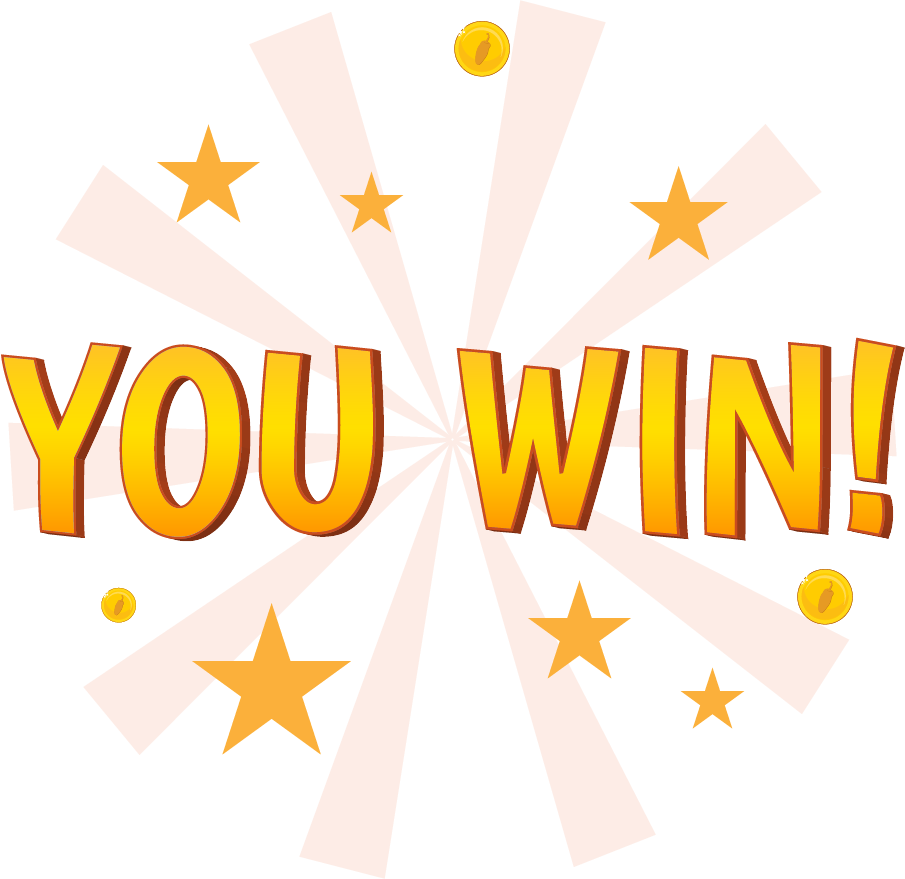
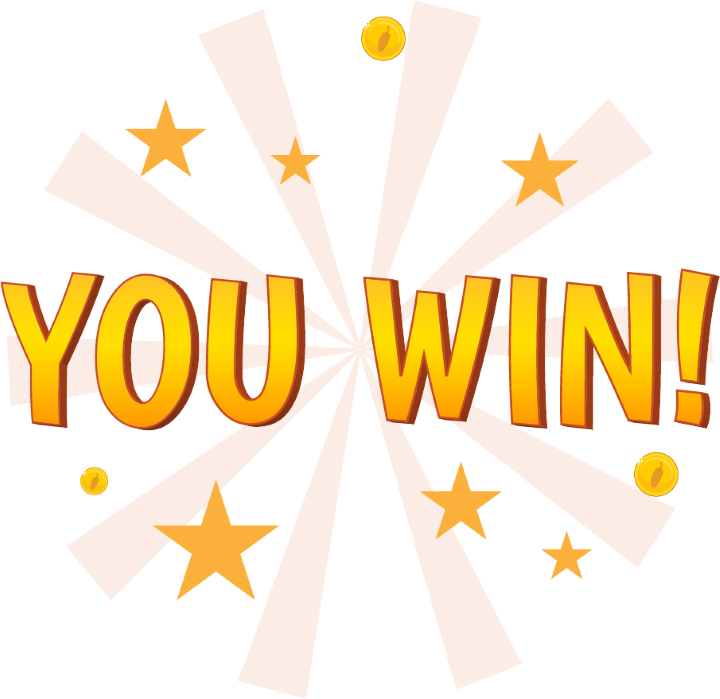
apply win lost screens + fixing some issues

diff --git a/game.js b/game.js
@@ -34,6 +34,7 @@ function gameInit() {
 
 //start Game handler
 function startGame() {
+  managePauseAudios();
   startScreen.style.display = "none";
   winLoseScreen.style.display = "none";
   canvasContainer.style.display = "block";
@@ -42,20 +43,42 @@ function startGame() {
 }
 
 function backToMenu(event) {
-  console.log(event.currentTarget.parentElement.dataset.id);
   let screenId = event.currentTarget.parentElement.dataset.id;
 
-  if (screenId === "canvas") {
-    if (world) world.stopGame();
-    manageMuteAudios(
-      audioManager.soundEffects,
-      audioManager.menuMusik,
-      audioManager.winLoseMusic,
-    );
-    canvasContainer.style.display = "none";
-    startScreen.style.display = "flex";
-    manageUnmuteAudioWelcomeScreen();
-  }
+  if (world) world.stopGame();
+  managePauseAudios();
+
+  screenId === "canvas"
+    ? (canvasContainer.style.display = "none")
+    : screenId === "win-lose-game-btn"
+      ? (winLoseScreen.style.display = "none")
+      : null;
+
+  contentContainer.innerHTML = "";
+  startScreen.style.display = "flex";
+  manageUnmuteAudioWelcomeScreen();
+}
+
+function showWinScreen() {
+  canvasContainer.style.display = "none";
+  startScreen.style.display = "none";
+  managePauseAudios();
+  winLoseScreen.style.display = "flex";
+  winLoseScreen.innerHTML = renderWinLoseScreen();
+  winLoseScreen.classList.remove("lose-background");
+  winLoseScreen.classList.add("win-background");
+  if (!audioManager.isMuted) audioManager.winLoseMusic.win.play();
+}
+
+function showLoseScreen() {
+  canvasContainer.style.display = "none";
+  startScreen.style.display = "none";
+  managePauseAudios();
+  winLoseScreen.style.display = "flex";
+  winLoseScreen.innerHTML = renderWinLoseScreen();
+  winLoseScreen.classList.remove("win-background");
+  winLoseScreen.classList.add("lose-background");
+  if (!audioManager.isMuted) audioManager.winLoseMusic.gameOver.play();
 }
 
 //side-Screen function
@@ -80,7 +103,7 @@ fullscreenBtns.forEach((btn) => {
 
 //game music manager
 function manageGameAudio() {
-  manageMuteAudios();
+  // managePauseAudios();
   if (!audioManager.isMuted) {
     audioManager.soundEffects.game.play();
     audioManager.soundEffects.game.volume = 0.2;
@@ -98,7 +121,7 @@ muteBtns.forEach((muteBtn) => {
     localStorage.setItem("audioMuted", audioManager.isMuted);
     updateAllIcons();
 
-    if (audioManager.isMuted) manageMuteAudios();
+    if (audioManager.isMuted) managePauseAudios();
     else {
       let screenId = event.currentTarget.parentElement.dataset.id;
 
@@ -117,7 +140,7 @@ function updateAllIcons() {
 }
 
 function manageUnmuteAudioWelcomeScreen() {
-  manageMuteAudios();
+  // managePauseAudios();
   if (!audioManager.isMuted) {
     audioManager.menuMusik.menu.play();
     audioManager.menuMusik.menu.loop = true;
@@ -126,7 +149,7 @@ function manageUnmuteAudioWelcomeScreen() {
 }
 
 function manageUnmuteAudioCanvas() {
-  manageMuteAudios();
+  // managePauseAudios();
   if (!audioManager.isMuted) {
     audioManager.soundEffects.game.play();
     audioManager.soundEffects.game.loop = true;
@@ -134,7 +157,7 @@ function manageUnmuteAudioCanvas() {
   }
 }
 
-function manageMuteAudios() {
+function managePauseAudios() {
   audioManager.pauseGameAudios(audioManager.soundEffects);
   audioManager.pauseGameAudios(audioManager.menuMusik);
   audioManager.pauseGameAudios(audioManager.winLoseMusic);

diff --git a/templates.js b/templates.js
@@ -47,3 +47,32 @@ function renderImpressumContent() {
           </div>
   `;
 }
+
+function renderWinLoseScreen() {
+  return `
+  <div class="btns">
+          <!-- GAME BUTTONS -->
+          <div id="gameBtns" data-id="win-lose-game-btn">
+            <!-- BACK TO MENU -->
+            <button id="backToMenu-btn" onclick="backToMenu(event)">
+              Back to Menu
+            </button>
+
+            <!-- RESTART GAME -->
+            <button id="restartGame-btn">Restart game</button>
+          </div>
+
+          <!-- CONFIG BUTTONS -->
+          <div class="configBtns" data-id="win-lose-config-btn">
+            <!-- MUTE BUTTON -->
+            <button class="audio-btn" aria-label="audio-button">
+              <img src="assets/Icons/volume-xmark-solid.png" alt="audio-btn" />
+            </button>
+            <!-- FULLSCREEN BUTTON -->
+            <button class="fullScreen-btn" aria-label="fullscreen-button">
+              <i class="fa-solid fa-expand"></i>
+            </button>
+          </div>
+        </div>
+  `;
+}

diff --git a/index.html b/index.html
@@ -91,32 +91,7 @@
         <div id="contents"></div>
       </div>
 
-      <div id="win-lose-screen" class="win-lose-screen">
-        <div class="btns">
-          <!-- GAME BUTTONS -->
-          <div id="gameBtns" data-id="win-lose-game-btn">
-            <!-- BACK TO MENU -->
-            <button id="backToMenu-btn" onclick="backToMenu(event)">
-              Back to Menu
-            </button>
-
-            <!-- RESTART GAME -->
-            <button id="restartGame-btn">Restart game</button>
-          </div>
-
-          <!-- CONFIG BUTTONS -->
-          <div class="configBtns" data-id="win-lose-config-btn">
-            <!-- MUTE BUTTON -->
-            <button class="audio-btn" aria-label="audio-button">
-              <img src="assets/Icons/volume-xmark-solid.png" alt="audio-btn" />
-            </button>
-            <!-- FULLSCREEN BUTTON -->
-            <button class="fullScreen-btn" aria-label="fullscreen-button">
-              <i class="fa-solid fa-expand"></i>
-            </button>
-          </div>
-        </div>
-      </div>
+      <div id="win-lose-screen" class="win-lose-screen"></div>
 
       <!-- CANVAS -->
       <div id="canvas-container" class="canvas-container">

diff --git a/Javascript/models/World.class.js b/Javascript/models/World.class.js
@@ -44,6 +44,7 @@ class World {
     //Character
     this.character.updateCharacter();
     this.character.drawOnCanvas(this.ctx, this.character);
+    this.applyCharacterDeadSound();
 
     //Chickens
     this.checkCollisionsWithChickens();
@@ -266,20 +267,39 @@ class World {
 
   applyBossSounds() {
     if (this.level.endboss.isDead && !this.level.endboss.isPlayingDeadSound) {
+      this.level.endboss.pepeWon = true;
       if (!this.audioManager.isMuted) {
         this.audioManager.soundEffects.bossDead.play();
         this.level.endboss.isPlayingDeadSound = true;
+        setTimeout(() => {
+          this.stopGame();
+          showWinScreen();
+        }, 1000);
         return;
       }
     } else if (this.level.endboss.isAttacking && !this.audioManager.isMuted)
       this.audioManager.soundEffects.bossGrowl.play();
   }
 
+  applyCharacterDeadSound() {
+    if (this.character.isDead) {
+      this.character.pepeLost = true;
+      if (!this.audioManager.isMuted) {
+        this.audioManager.soundEffects.pepeDead.play();
+        setTimeout(() => {
+          this.stopGame();
+          showLoseScreen();
+        }, 500);
+        return;
+      }
+    }
+  }
+
   stopGame() {
     this.isGameRunning = false;
 
-    this.audioManager.pauseGameAudios(this.audioManager.soundEffects);
-    this.audioManager.pauseGameAudios(this.audioManager.menuMusik);
-    this.audioManager.pauseGameAudios(this.audioManager.winLoseMusic);
+    // this.audioManager.pauseGameAudios(this.audioManager.soundEffects);
+    // this.audioManager.pauseGameAudios(this.audioManager.menuMusik);
+    // this.audioManager.pauseGameAudios(this.audioManager.winLoseMusic);
   }
 }

diff --git a/style.css b/style.css
@@ -73,11 +73,12 @@ main {
 }
 
 .btns {
+  width: 100%;
   display: flex;
   justify-content: space-between;
   align-items: center;
   gap: 50px;
-  padding: 20px 0 0 20px;
+  padding: 20px 20px 0;
 }
 
 #contents {
@@ -211,10 +212,25 @@ main {
 }
 
 #win-lose-screen {
-  width: 720px;
-  height: 480px;
+  position: absolute;
+  top: 0;
+  left: 0;
+  width: 100%;
+  height: 100%;
   display: flex;
   flex-direction: column;
   justify-content: flex-start;
   align-items: center;
+}
+
+.win-background {
+  background-image: url("assets/img/You won, you lost/You Win A.png");
+  background-size: cover;
+  background-position: center center;
+}
+
+.lose-background {
+  background-image: url("assets/img/You won, you lost/Game Over.png");
+  background-size: cover;
+  background-position: center center;
 }

diff --git a/Javascript/models/Character.class.js b/Javascript/models/Character.class.js
@@ -45,6 +45,9 @@ class Character extends MovableObject {
     //throwing Bottles
     this.lastThrowTime = 0;
 
+    //state
+    this.pepeLost = false;
+
     //Image Array
     this.PEPE_IDLE = [
       "assets/img/pepe-character/idle/I-1.png",
@@ -212,5 +215,10 @@ class Character extends MovableObject {
         this.isInvincible = false;
       }, this.invincibilityDuration);
     }
+  }
+
+  die() {
+    super.die();
+    this.pepeLost = true;
   }
 }

diff --git a/Javascript/models/Audio.class.js b/Javascript/models/Audio.class.js
@@ -59,6 +59,11 @@ class AudioManager {
       this.soundEffects,
     );
     this.load("game", "assets/sounds/safari.mp3", this.soundEffects);
+    this.load(
+      "pepeDead",
+      "assets/sounds/universfield-male-death-scream-horror-352706.mp3",
+      this.soundEffects,
+    );
   }
 
   loadMenuMusik() {
@@ -97,8 +102,6 @@ class AudioManager {
     for (let key of Object.keys(audioLibrary)) {
       audioLibrary[key].pause();
       audioLibrary[key].currentTime = 0;
-
-      console.log(key);
     }
   }
 }

diff --git a/Javascript/models/Endboss.class.js b/Javascript/models/Endboss.class.js
@@ -28,6 +28,7 @@ class Endboss extends MovableObject {
     this.isAttacking = false;
     this.isHurt = false;
     this.isPlayingDeadSound = false;
+    this.pepeWon = false;
 
     //health and damage
     this.health = 100;